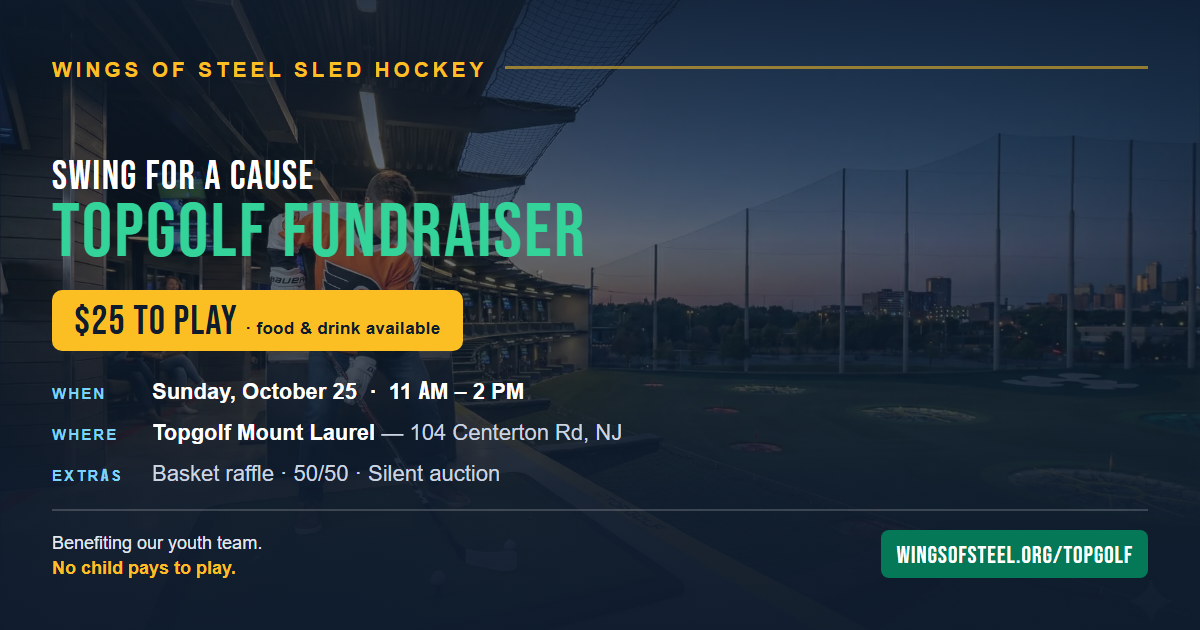
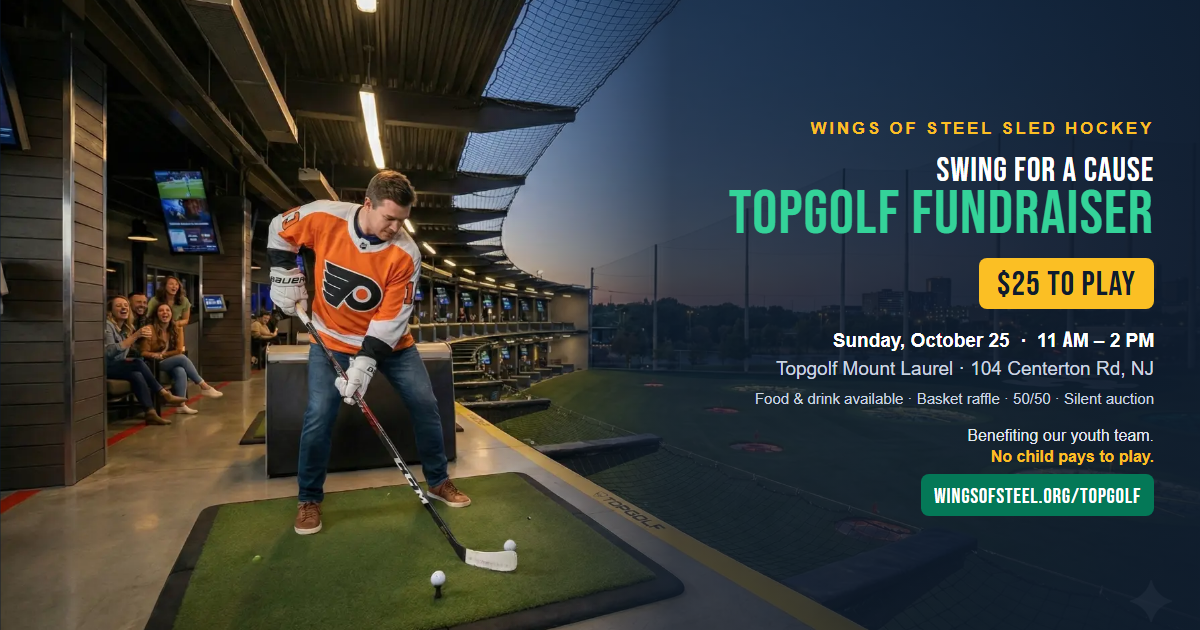
Redesign the social cards so the photo is not buried, and rewrite the copy
The first cards put a full-frame scrim over the hero photo and ran the type
across the middle of it, which hid the thing that makes the photo work: a guy
in a Flyers jersey hitting a golf ball with a hockey stick. Both sizes now
darken only the right-hand side and keep every line of type in a right-hand
column, leaving the player completely clear.

The business-page and personal copy are rewritten around the fact that the
owner's son is the team captain, which is the honest reason either account
would post this. He is not named -- he is a minor and the post does not need it.

diff --git a/docs/campaigns/assets/fb-card-template.html b/docs/campaigns/assets/fb-card-template.html
@@ -1,103 +1,54 @@
 <!DOCTYPE html>
-<html>
-<head>
-<meta charset="utf-8">
+<html><head><meta charset="utf-8">
 <style>
-  @font-face { font-family:'Bebas Neue'; src:url(BEBAS) format('woff2'); font-weight:400; font-display:block; }
-  @font-face { font-family:'Oswald'; src:url(OSWALD600) format('woff2'); font-weight:600; font-display:block; }
-  @font-face { font-family:'Oswald'; src:url(OSWALD700) format('woff2'); font-weight:700; font-display:block; }
-  @font-face { font-family:'Oswald'; src:url(OSWALD600) format('woff2'); font-weight:400; font-display:block; }
-
+FACES
   * { margin:0; padding:0; box-sizing:border-box; }
   body { width:var(--w); height:var(--h); overflow:hidden; background:#0f1c2e; }
-  .card {
-    position:relative; width:100%; height:100%;
-    display:flex; flex-direction:column; justify-content:space-between;
-    font-family:'Oswald',sans-serif; color:#fff; overflow:hidden;
-  }
+  .card { position:relative; width:100%; height:100%; font-family:'Oswald',sans-serif; color:#fff; overflow:hidden; }
   .bg { position:absolute; inset:0; }
-  .bg img { width:100%; height:100%; object-fit:cover; object-position:30% center; }
-  .scrim {
-    position:absolute; inset:0;
-    background:
-      linear-gradient(180deg, rgba(15,28,46,.88) 0%, rgba(15,28,46,.55) 38%, rgba(15,28,46,.93) 78%, rgba(15,28,46,.98) 100%);
-  }
-  .content { position:relative; z-index:2; display:flex; flex-direction:column; height:100%; padding:var(--pad); }
+  .bg img { width:100%; height:100%; object-fit:cover; object-position:var(--imgpos); }
 
-  .top { display:flex; align-items:center; gap:18px; }
-  .eyebrow {
-    font-weight:700; letter-spacing:.18em; text-transform:uppercase;
-    color:#fbbf24; font-size:var(--eyebrow);
-  }
-  .rule { height:3px; background:#fbbf24; flex:1; opacity:.55; }
+  /* Darken ONLY where type sits, so the player stays untouched. */
+  .scrim { position:absolute; inset:0; background:var(--scrim); }
 
-  .mid { margin-top:auto; }
-  .kicker {
-    font-family:'Bebas Neue',sans-serif; letter-spacing:.04em; line-height:.92;
-    font-size:var(--kicker); color:#fff;
+  .panel {
+    position:absolute; z-index:2;
+    right:var(--pad); bottom:var(--pad); top:var(--pad);
+    width:var(--panelw);
+    display:flex; flex-direction:column; justify-content:center;
+    text-align:right;
   }
-  .headline {
-    font-family:'Bebas Neue',sans-serif; letter-spacing:.03em; line-height:.9;
-    font-size:var(--headline); color:#34d399; margin-top:.05em;
-  }
-  .price {
-    display:inline-block; margin-top:var(--gap);
-    background:#fbbf24; color:#0f1c2e;
-    font-family:'Bebas Neue',sans-serif; font-size:var(--price);
-    letter-spacing:.03em; line-height:1; padding:var(--pricePad);
-    border-radius:10px;
-  }
-  .price small { font-family:'Oswald',sans-serif; font-weight:600; font-size:var(--priceSmall); letter-spacing:.02em; }
-
-  .details { margin-top:var(--gap); display:flex; flex-direction:column; gap:var(--detailGap); }
-  .row { display:flex; align-items:baseline; gap:14px; font-size:var(--detail); font-weight:600; }
-  .row .label { color:#7dd3fc; font-weight:700; letter-spacing:.14em; text-transform:uppercase; font-size:var(--label); min-width:var(--labelW); }
-  .row .value { color:#fff; }
-  .row .sub { color:#cbd5e1; font-weight:400; }
-
-  .foot {
-    margin-top:var(--gap); padding-top:var(--footPad);
-    border-top:2px solid rgba(255,255,255,.18);
-    display:flex; align-items:center; justify-content:space-between; gap:20px;
-  }
-  .mission { font-size:var(--mission); color:#e2e8f0; font-weight:400; line-height:1.35; max-width:56%; }
+  .eyebrow { font-weight:700; letter-spacing:.16em; text-transform:uppercase; color:#fbbf24; font-size:var(--eyebrow); }
+  .kicker { font-family:'Bebas Neue',sans-serif; letter-spacing:.03em; line-height:.95; font-size:var(--kicker); margin-top:var(--g1); }
+  .headline { font-family:'Bebas Neue',sans-serif; letter-spacing:.02em; line-height:.88; font-size:var(--headline); color:#34d399; }
+  .price { align-self:flex-end; margin-top:var(--g1); background:#fbbf24; color:#0f1c2e;
+    font-family:'Bebas Neue',sans-serif; font-size:var(--price); letter-spacing:.03em; line-height:1;
+    padding:var(--pricePad); border-radius:8px; }
+  .price small { font-family:'Oswald',sans-serif; font-weight:600; font-size:var(--priceSmall); }
+  .when { margin-top:var(--g1); font-size:var(--detail); font-weight:600; line-height:1.45; }
+  .when .b { color:#fff; }
+  .when .s { color:#cbd5e1; font-weight:400; }
+  .extras { margin-top:6px; font-size:var(--extras); color:#cbd5e1; font-weight:400; }
+  .foot { margin-top:var(--g1); display:flex; flex-direction:column; align-items:flex-end; gap:8px; }
+  .mission { font-size:var(--mission); color:#e2e8f0; font-weight:400; line-height:1.3; }
   .mission b { color:#fbbf24; font-weight:700; }
-  .url {
-    font-family:'Bebas Neue',sans-serif; font-size:var(--url); letter-spacing:.04em;
-    color:#fff; background:#047857; padding:var(--urlPad); border-radius:8px; white-space:nowrap;
-  }
-</style>
-</head>
-<body>
-  <div class="card">
-    <div class="bg">
-      <img src="IMGSRC" alt="">
-      <div class="scrim"></div>
+  .url { font-family:'Bebas Neue',sans-serif; font-size:var(--url); letter-spacing:.04em; background:#047857; padding:var(--urlPad); border-radius:8px; white-space:nowrap; }
+</style></head>
+<body><div class="card">
+  <div class="bg"><img src="IMGSRC" alt=""><div class="scrim"></div></div>
+  <div class="panel">
+    <div class="eyebrow">Wings of Steel Sled Hockey</div>
+    <div class="kicker">Swing for a cause</div>
+    <div class="headline">Topgolf Fundraiser</div>
+    <div class="price">$25 TO PLAY</div>
+    <div class="when">
+      <span class="b">Sunday, October 25 &nbsp;·&nbsp; 11 AM – 2 PM</span><br>
+      <span class="s">Topgolf Mount Laurel · 104 Centerton Rd, NJ</span>
     </div>
-    <div class="content">
-      <div class="top">
-        <div class="eyebrow">Wings of Steel Sled Hockey</div>
-        <div class="rule"></div>
-      </div>
-
-      <div class="mid">
-        <div class="kicker">Swing for a cause</div>
-        <div class="headline">Topgolf Fundraiser</div>
-
-        <div class="price">$25 TO PLAY <small>· food &amp; drink available</small></div>
-
-        <div class="details">
-          <div class="row"><span class="label">When</span><span class="value">Sunday, October 25 &nbsp;·&nbsp; 11 AM – 2 PM</span></div>
-          <div class="row"><span class="label">Where</span><span class="value">Topgolf Mount Laurel <span class="sub">— 104 Centerton Rd, NJ</span></span></div>
-          <div class="row"><span class="label">Extras</span><span class="value sub">Basket raffle · 50/50 · Silent auction</span></div>
-        </div>
-
-        <div class="foot">
-          <div class="mission">Benefiting our youth team.<br><b>No child pays to play.</b></div>
-          <div class="url">WINGSOFSTEEL.ORG/TOPGOLF</div>
-        </div>
-      </div>
+    <div class="extras">Food &amp; drink available · Basket raffle · 50/50 · Silent auction</div>
+    <div class="foot">
+      <div class="mission">Benefiting our youth team.<br><b>No child pays to play.</b></div>
+      <div class="url">WINGSOFSTEEL.ORG/TOPGOLF</div>
     </div>
   </div>
-</body>
-</html>
+</div></body></html>

diff --git a/docs/campaigns/topgolf-oct-2026-social.md b/docs/campaigns/topgolf-oct-2026-social.md
@@ -6,8 +6,14 @@ Graphics in `assets/`:
 
 | File | Size | Use |
 |---|---|---|
-| `topgolf-oct-2026-square.png` | 1080×1080 | Facebook/Instagram feed post |
+| `topgolf-oct-2026-square.png` | 1080×1080 | Facebook/Instagram feed post — the default |
 | `topgolf-oct-2026-link.png` | 1200×630 | Link preview / shared-link card / event cover |
+
+**Layout, revised 2026-09-20.** The first version laid a full-frame scrim over the
+photo and put the type across the middle, which buried the player. Both cards now
+darken only the right-hand side and keep all type in a right-hand column, so the
+hockey player swinging a stick at the tee — the whole reason the photo works — is
+completely unobstructed.
 | `fb-card-template.html` | — | Source. Re-render to change the copy (see below). |
 
 To re-render after editing the template, from the repo root with a Node script that
@@ -43,43 +49,47 @@ algorithm tends to prefer):
 
 ---
 
-## 2. A supporting business page (e.g. 322 BBQ)
+## 2. 322 BBQ page
 
-Post as the business, in the business's own voice. A local business backing a local
-youth team reads as genuine; a copy-pasted charity ask reads as a forward.
+The real hook: **the owner's son is the team captain.** That is a far stronger
+reason for a restaurant to post this than a generic endorsement, and it is true.
+Do not name him — he is a minor and the post does not need it.
 
 Attach: `topgolf-oct-2026-square.png`
 
-> We're proud to be behind Wings of Steel Sled Hockey — a South Jersey youth team
-> where no child pays to play.
+> Some of you know our owner's son is the captain of Wings of Steel — a South
+> Jersey youth sled hockey team where no child ever pays to play.
 >
-> They're holding their Topgolf fundraiser on **Sunday, October 25, 11 AM – 2 PM at
-> Topgolf Mount Laurel**. $25 to play, and every dollar goes to the kids' ice time,
-> sleds and travel.
+> They're holding their Topgolf fundraiser on **Sunday, October 25, 11 AM – 2 PM
+> at Topgolf Mount Laurel**. $25 to play, and every dollar goes to the kids — ice
+> time, sleds and travel to tournaments.
 >
 > We'll be there. Come swing with us 👉 wingsofsteel.org/topgolf
 
-**Make it concrete before posting.** If the business is donating a raffle basket,
-food, or sponsoring a bay, say so in one line — that is what turns a share into a
-reason for their customers to care. If nothing is being donated, soften "We're proud
-to be behind" to "We're big fans of".
+If 322 is donating something concrete — a raffle basket, food, sponsoring a bay —
+add one line saying so. That turns a share into a reason for their customers to
+show up.
 
 ---
 
 ## 3. Personal share
 
-Shortest version. A personal post outperforms a page post with the same words
-because it reaches friends rather than followers — write it as yourself.
+Write it as yourself. A personal post beats a page post with identical words,
+because it reaches friends rather than followers — and this one has something no
+page post has.
 
-> My friends at Wings of Steel are running their Topgolf fundraiser on Sunday,
-> October 25 (11–2, Topgolf Mount Laurel). $25 to play, and it keeps sled hockey
-> free for every kid on the team.
+> My son is the captain of Wings of Steel, a youth sled hockey team where no kid
+> has ever had to pay to play. Watching that team is the best part of my year.
 >
-> I'm going. Come hit some balls with us — wingsofsteel.org/topgolf
+> They're running their Topgolf fundraiser on Sunday, October 25, 11–2, at
+> Topgolf Mount Laurel. $25 to play. That money is ice time, sleds, and getting
+> these kids to tournaments.
+>
+> I'll be there. Come hit some balls with us — wingsofsteel.org/topgolf
 
-Alternative: hit **Share** on the Wings of Steel page's post and add that text above
-it. A share carries the page's post to your friends and sends the engagement back to
-the team's page rather than splitting it across two posts.
+Alternative: hit **Share** on the Wings of Steel page's post and put that text
+above it. The share carries the page's post to your friends and sends the
+engagement back to the team's page instead of splitting it across two posts.
 
 ---
 
